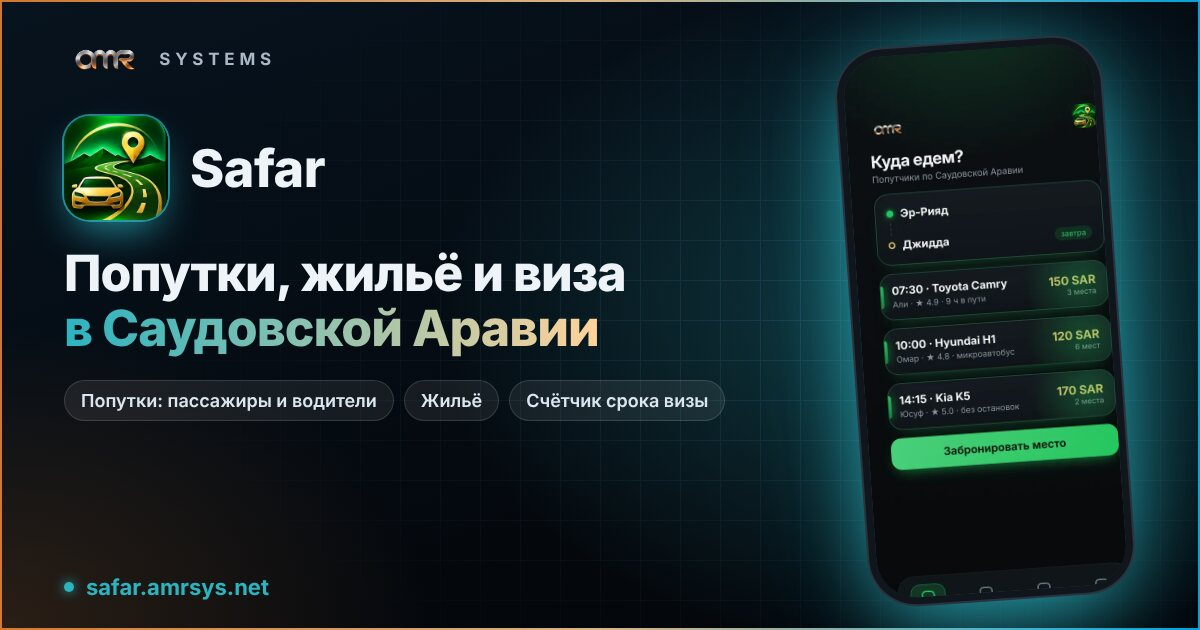
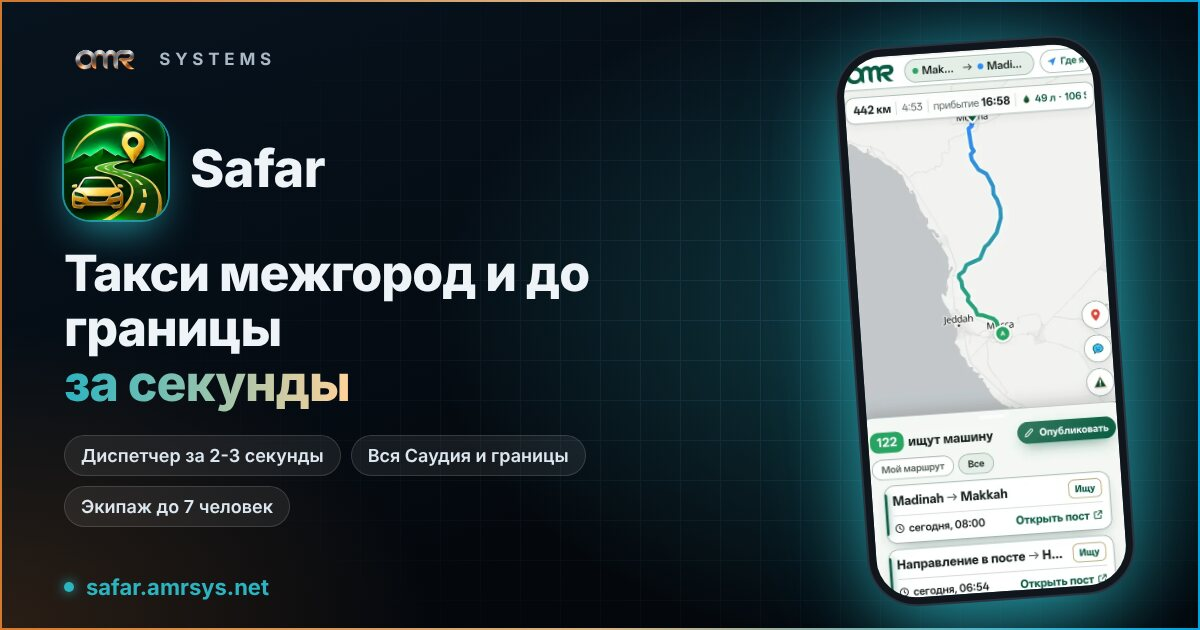
Визитка Safar amrsys.net/go/safar/ (RU и UZ) и новый интерфейс в картинках
- страница-визитка: хук, три кнопки (Telegram-приложение, установить на телефон, группа), экраны нового интерфейса, что умеет, водителям
- картинка ссылки Safar и экран на карточке - новый интерфейс (карта и «ищут машину»)
- тексты Safar на портале без жилья: такси межгород и до границы за секунды, виза, мукым, автомобиль (5 языков)

Claude-Session: https://claude.ai/code/session_01DUC25L6TuRRD8wTQnEHGp3

Changed region(s): [[0.6783, 0.0603, 0.9558, 0.9651], [0.0308, 0.3921, 0.6167, 0.8444]]

diff --git a/public/site/go/safar/index.html b/public/site/go/safar/index.html
@@ -1,0 +1,26 @@
+<!doctype html>
+<html lang="ru"><head><meta charset="utf-8"><meta name="viewport" content="width=device-width,initial-scale=1,viewport-fit=cover">
+<title>Safar - такси межгород и до границы за секунды</title><meta name="description" content="Бесплатное приложение для приезжих в Саудовской Аравии: попутки и такси межгород, границы, виза, мукым и автомобиль.">
+<link rel="canonical" href="https://amrsys.net/go/safar/">
+<meta property="og:type" content="website"><meta property="og:site_name" content="AMR Systems">
+<meta property="og:title" content="Safar - такси межгород и до границы за секунды"><meta property="og:description" content="Бесплатное приложение для приезжих в Саудовской Аравии: попутки и такси межгород, границы, виза, мукым и автомобиль.">
+<meta property="og:url" content="https://amrsys.net/go/safar/"><meta property="og:image" content="https://amrsys.net/assets/og/safar-ru.jpg">
+<meta property="og:image:width" content="1200"><meta property="og:image:height" content="630">
+<meta name="twitter:card" content="summary_large_image"><meta name="twitter:image" content="https://amrsys.net/assets/og/safar-ru.jpg">
+<meta name="theme-color" content="#14B8C6"><link rel="icon" href="/assets/go/safar-icon.webp" type="image/webp">
+<link rel="apple-touch-icon" href="/assets/go/safar-icon.webp"><link rel="stylesheet" href="/assets/go/safar.css"></head>
+<body><main>
+<nav class="lang"><a href="/go/safar/" aria-current="page">RU</a><a href="/go/safar/uz/">UZ</a></nav>
+<header class="hd"><img src="/assets/go/safar-icon.webp" alt="" width="72" height="72"><div><b>Safar</b><span>для приезжих в Саудовской Аравии</span></div></header>
+<h1>Такси межгород<br>и до границы<br><em>за секунды</em></h1>
+<p class="lead">Бесплатное приложение: поездки по всей Саудии, срок визы и мукыма, ваш автомобиль - в одном месте.</p>
+<div class="btns">
+<a class="btn main" href="https://t.me/amrsafar_bot?startapp"><i>🚀</i><span>Открыть в Telegram<small>Мини-приложение @amrsafar_bot</small></span></a>
+<a class="btn" href="https://safar.amrsys.net/"><i>📲</i><span>Установить на телефон<small>Как обычное приложение, без Telegram</small></span></a>
+<a class="btn tg" href="https://t.me/amrservic"><i>💬</i><span>Группа в Telegram<small>Пассажиры и водители · t.me/amrservic</small></span></a>
+</div>
+<h2>Как выглядит</h2><div class="shots"><figure class="shot"><img src="/assets/go/safar-map.webp" alt="" width="540" height="1107" loading="lazy"><p>Маршрут, время и топливо - и кто ищет машину по пути</p></figure><figure class="shot"><img src="/assets/go/safar-list.webp" alt="" width="540" height="1107" loading="lazy"><p>Сотни людей ищут машину - пост открывается в один тап</p></figure><figure class="shot"><img src="/assets/go/safar-services.webp" alt="" width="540" height="1107" loading="lazy"><p>Виза, мукым, автомобиль и пассажиры для водителя</p></figure><figure class="shot"><img src="/assets/go/safar-profile.webp" alt="" width="540" height="1107" loading="lazy"><p>Ваша машина и карточка водителя</p></figure></div><p class="hint">листайте →</p>
+<h2>Что умеет</h2><div class="feat"><div><i>⚡</i><span>Диспетчер: заявка пассажира попадает к водителю за 2-3 секунды</span></div><div><i>🗺</i><span>Мекка, Медина, Джидда, Эр-Рияд, вся Саудия и границы Иордании, Бахрейна, Катара</span></div><div><i>👥</i><span>Водитель публикует рейс - Safar сам собирает экипаж до 7 человек</span></div><div><i>🛂</i><span>Виза и мукым: сколько дней осталось и напоминание вовремя</span></div><div><i>🚗</i><span>Автомобиль: масло и замены по пробегу</span></div></div>
+<p class="drv"><b>Водителям:</b> подписка 50 SAR в месяц - пассажиры по вашему направлению приходят первыми, по честной очереди.</p>
+<footer>Бесплатно · 5 языков · <a href="https://amrsys.net/">AMR Systems</a></footer>
+</main></body></html>

diff --git a/public/site/go/safar/uz/index.html b/public/site/go/safar/uz/index.html
@@ -1,0 +1,26 @@
+<!doctype html>
+<html lang="uz"><head><meta charset="utf-8"><meta name="viewport" content="width=device-width,initial-scale=1,viewport-fit=cover">
+<title>Safar - shaharlararo va chegaragacha taksi soniyalarda</title><meta name="description" content="Saudiya Arabistonidagi musofirlar uchun bepul ilova: shaharlararo taksi, chegaralar, viza, muqim va avtomobil.">
+<link rel="canonical" href="https://amrsys.net/go/safar/uz/">
+<meta property="og:type" content="website"><meta property="og:site_name" content="AMR Systems">
+<meta property="og:title" content="Safar - shaharlararo va chegaragacha taksi soniyalarda"><meta property="og:description" content="Saudiya Arabistonidagi musofirlar uchun bepul ilova: shaharlararo taksi, chegaralar, viza, muqim va avtomobil.">
+<meta property="og:url" content="https://amrsys.net/go/safar/uz/"><meta property="og:image" content="https://amrsys.net/assets/og/safar-uz.jpg">
+<meta property="og:image:width" content="1200"><meta property="og:image:height" content="630">
+<meta name="twitter:card" content="summary_large_image"><meta name="twitter:image" content="https://amrsys.net/assets/og/safar-uz.jpg">
+<meta name="theme-color" content="#14B8C6"><link rel="icon" href="/assets/go/safar-icon.webp" type="image/webp">
+<link rel="apple-touch-icon" href="/assets/go/safar-icon.webp"><link rel="stylesheet" href="/assets/go/safar.css"></head>
+<body><main>
+<nav class="lang"><a href="/go/safar/">RU</a><a href="/go/safar/uz/" aria-current="page">UZ</a></nav>
+<header class="hd"><img src="/assets/go/safar-icon.webp" alt="" width="72" height="72"><div><b>Safar</b><span>Saudiyadagi musofirlar uchun</span></div></header>
+<h1>Shaharlararo va<br>chegaragacha taksi<br><em>soniyalarda</em></h1>
+<p class="lead">Bepul ilova: butun Saudiya bo‘ylab safar, viza va muqim muddati, avtomobilingiz - bir joyda.</p>
+<div class="btns">
+<a class="btn main" href="https://t.me/amrsafar_bot?startapp"><i>🚀</i><span>Telegramda ochish<small>@amrsafar_bot mini-ilovasi</small></span></a>
+<a class="btn" href="https://safar.amrsys.net/"><i>📲</i><span>Telefonga o‘rnatish<small>Oddiy ilova kabi, Telegramsiz</small></span></a>
+<a class="btn tg" href="https://t.me/amrservic"><i>💬</i><span>Telegram guruhi<small>Yo‘lovchi va haydovchilar · t.me/amrservic</small></span></a>
+</div>
+<h2>Ko‘rinishi</h2><div class="shots"><figure class="shot"><img src="/assets/go/safar-map.webp" alt="" width="540" height="1107" loading="lazy"><p>Yo‘nalish, vaqt va yoqilg‘i - va yo‘lda kim mashina qidirmoqda</p></figure><figure class="shot"><img src="/assets/go/safar-list.webp" alt="" width="540" height="1107" loading="lazy"><p>Yuzlab odamlar mashina qidirmoqda - post bir bosishda ochiladi</p></figure><figure class="shot"><img src="/assets/go/safar-services.webp" alt="" width="540" height="1107" loading="lazy"><p>Viza, muqim, avtomobil va haydovchi uchun yo‘lovchilar</p></figure><figure class="shot"><img src="/assets/go/safar-profile.webp" alt="" width="540" height="1107" loading="lazy"><p>Mashinangiz va haydovchi kartochkasi</p></figure></div><p class="hint">suring →</p>
+<h2>Nimalar qila oladi</h2><div class="feat"><div><i>⚡</i><span>Dispetcher: yo‘lovchi arizasi haydovchiga 2-3 soniyada yetadi</span></div><div><i>🗺</i><span>Makka, Madina, Jidda, Riyod, butun Saudiya va Iordaniya, Bahrayn, Qatar chegaralari</span></div><div><i>👥</i><span>Haydovchi reys e’lon qiladi - Safar 7 kishigacha ekipajni o‘zi yig‘adi</span></div><div><i>🛂</i><span>Viza va muqim: necha kun qoldi va o‘z vaqtida eslatma</span></div><div><i>🚗</i><span>Avtomobil: moy va almashtirish probeg bo‘yicha</span></div></div>
+<p class="drv"><b>Haydovchilarga:</b> oyiga 50 SAR obuna - yo‘nalishingiz bo‘yicha yo‘lovchilar birinchi bo‘lib, adolatli navbat bilan keladi.</p>
+<footer>Bepul · 5 tilda · <a href="https://amrsys.net/uz/">AMR Systems</a></footer>
+</main></body></html>

diff --git a/public/assets/go/safar.css b/public/assets/go/safar.css
@@ -1,0 +1,38 @@
+/* Визитка Safar: amrsys.net/go/safar/ (23.11.2026). Без JS и без inline-стилей (CSP сайта). */
+*{box-sizing:border-box;margin:0}
+html{background:#F4FBFC;-webkit-text-size-adjust:100%}
+body{font-family:Inter,system-ui,-apple-system,"Segoe UI",Roboto,sans-serif;color:#0B2230;min-height:100vh;
+ background:radial-gradient(80% 40% at 90% 0%,#9EEBF2,transparent 65%),radial-gradient(70% 35% at 0% 100%,#FFD7A8,transparent 65%),linear-gradient(180deg,#fff,#EAF8FA)}
+main{max-width:480px;margin:0 auto;padding:22px 18px 30px}
+.lang{display:flex;justify-content:flex-end;gap:6px}
+.lang a{font-weight:700;font-size:13px;color:#0E8C99;text-decoration:none;padding:5px 11px;border-radius:999px;border:1.5px solid #BFE6EA;background:#fff}
+.lang a[aria-current]{background:#0E8C99;color:#fff;border-color:#0E8C99}
+.hd{display:flex;align-items:center;gap:14px;margin-top:10px}
+.hd img{width:72px;height:72px;border-radius:18px;box-shadow:0 10px 24px -10px rgba(20,140,160,.6),0 0 0 3px #fff}
+.hd b{display:block;font-size:26px;font-weight:900;letter-spacing:-.01em}
+.hd span{font-size:14px;color:#3F5F6C;font-weight:600}
+h1{margin-top:20px;font-size:34px;line-height:1.08;font-weight:900;letter-spacing:-.02em}
+h1 em{display:inline-block;margin-top:8px;font-style:normal;color:#fff;padding:2px 14px 5px;border-radius:12px;background:linear-gradient(90deg,#FF8A1F,#FFB627);transform:rotate(-2deg);box-shadow:0 10px 22px -10px rgba(255,138,31,.8)}
+.lead{margin-top:14px;font-size:16px;line-height:1.45;color:#30505E;font-weight:500}
+.btns{display:flex;flex-direction:column;gap:10px;margin-top:20px}
+.btn{display:flex;align-items:center;gap:14px;padding:15px 18px;border-radius:18px;text-decoration:none;font-weight:800;font-size:17px;color:#0B2230;background:#fff;border:2px solid #D3EEF1;box-shadow:0 8px 18px -14px rgba(11,34,48,.4)}
+.btn i{font-style:normal;font-size:24px;width:30px;text-align:center}
+.btn small{display:block;font-weight:600;font-size:13px;color:#4C6B78;margin-top:2px}
+.btn.main{background:linear-gradient(90deg,#FF8A1F,#FFB627);border-color:transparent;color:#fff;box-shadow:0 14px 28px -12px rgba(255,138,31,.85)}
+.btn.main small{color:#FFF3E2}
+.btn.tg{background:linear-gradient(90deg,#14B8C6,#38D3DF);border-color:transparent;color:#fff}
+.btn.tg small{color:#E3FBFD}
+h2{margin-top:28px;font-size:19px;font-weight:900}
+.shots{display:flex;gap:14px;overflow-x:auto;scroll-snap-type:x mandatory;padding:12px 2px 16px;margin:0 -18px;padding-inline:18px;scrollbar-width:none}
+.shots::-webkit-scrollbar{display:none}
+.shot{flex:0 0 74%;scroll-snap-align:center}
+.shot img{width:100%;height:auto;border-radius:26px;display:block;border:6px solid #0B2230;box-shadow:0 22px 40px -22px rgba(11,34,48,.6);background:#fff}
+.shot p{margin-top:10px;font-size:14.5px;line-height:1.35;font-weight:700;color:#0B2230}
+.hint{font-size:12.5px;color:#5E7C88;text-align:center}
+.feat{display:grid;gap:8px;margin-top:12px}
+.feat div{display:flex;gap:12px;align-items:flex-start;padding:12px 14px;border-radius:16px;background:#fff;border:1.5px solid #D9F0F2;font-size:15px;line-height:1.35;font-weight:600}
+.feat i{font-style:normal;font-size:20px}
+.drv{margin-top:14px;padding:14px 16px;border-radius:18px;background:#0B2230;color:#E6F4F6;font-size:15px;line-height:1.4}
+.drv b{color:#FFC46B}
+footer{margin-top:28px;text-align:center;font-size:13px;color:#5E7C88}
+footer a{color:#0E8C99;font-weight:700;text-decoration:none}
